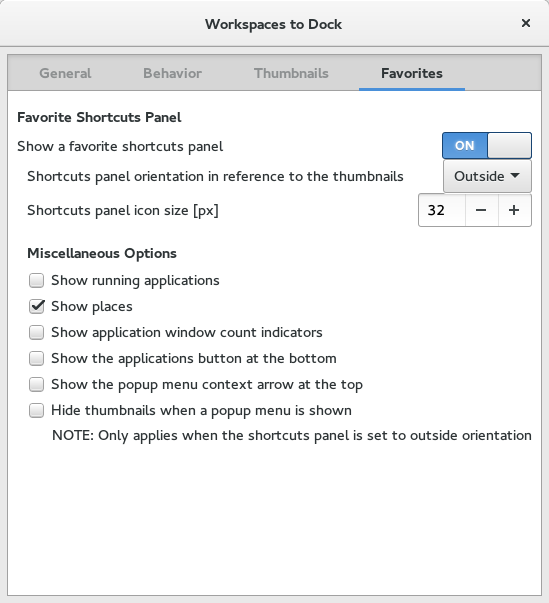
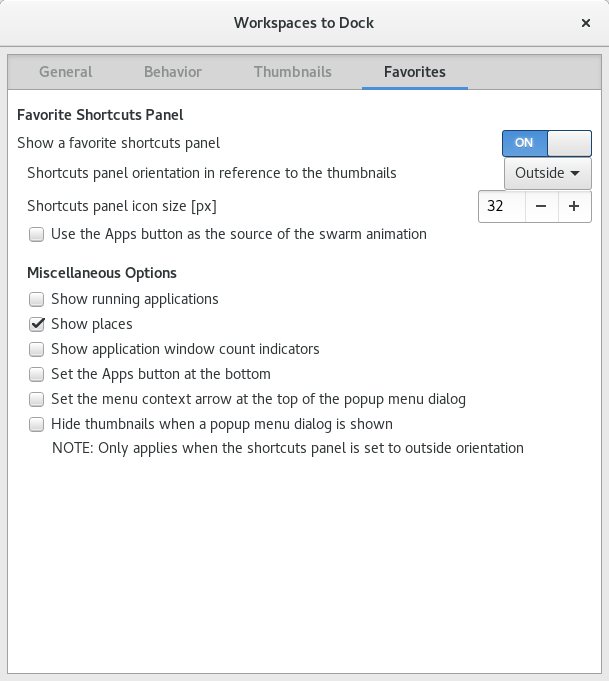
Update readme and screenshots.

Changed region(s): [[0.0, 0.0299, 1.0, 1.0]]

diff --git a/README.md b/README.md
@@ -10,15 +10,15 @@ Installation:
 ------------
 The easiest way to install Workspaces-to-Dock is from https://extensions.gnome.org/extension/427/workspaces-to-dock/ using your browser.
 
-If you would rather install it manually, download the releases branch on Github (https://github.com/passingthru67/workspaces-to-dock/tree/releases) and locate the appropriate release zip file. The release zip file contains the same non-debug version of the extension as https://extensions.gnome.org. The zip file can be extracted manually to the extensions folder or installed by using Gnome Tweak tool.
+If you would rather install it manually, and receive the latest fixes and enhancements, download the master branch zip (https://github.com/passingthru67/workspaces-to-dock/archive/master.zip) and extract it into a temporary folder. Inside of the extracted folder you will find the workspaces-to-dock@passingthru67.gmail folder. Simply copy it to your ~/.local/share/gnome-shell/extensions folder. Next, restart Gnome Shell (alt+f2+r). If Workspaces-to-Dock doesn't show up, you may need to enable the extension using Gnome Tweak tool.
+
+For older releases, download the releases branch on Github (https://github.com/passingthru67/workspaces-to-dock/tree/releases) and locate the appropriate release zip file. The release zip file contains the same non-debug version of the extension as https://extensions.gnome.org. The zip file can be extracted manually to the extensions folder or installed by using Gnome Tweak tool.
 
     $unzip workspaces-to-dock@passingthru67.gmail.com.zip -d ~/.local/share/gnome-shell/extensions/workspaces-to-dock@passingthru67.gmail.com
 
 or
 
     Gnome Tweak tool --> Shell Extensions --> Install from zip file --> choose the zip file.
-
-If you're checking out code from the master branch (downloaded as zip or tar.gz), you will find an installation zip file inside with the latest updates and fixes. The version number is 0 signifying it is not a release version. The zip file can be extracted manually to the extensions folder or installed by using the Gnome Tweak tool as described above.
 
 
 The extension can be configured using `gnome-shell-extension-prefs`. No shell restarts are required.
@@ -35,19 +35,19 @@ General Settings:
 
     **Show the dock at the following screen position** - Option to position the workspaces dock on the right or left side of the screen.
 
+    **Hide the Gnome Shell Dash** - Option to hide the default Dash in overview mode.
+
 - **Height:**
+
+    **Customize the height of the dock** - Option to autosize or extend the height of the dock.
+
+    **Autosize and center the dock based on workspaces and shortcuts** - Option to autosize and center the dock.
 
     **Extend the height of the dock to fill the screen** - Option to extend the height of the dock to fill the screen.
 
     **Top margin** - Sets a top margin for the extended dock. The range allowed is 0% to 25% of the screen height.
 
     **Bottom margin** - Sets a bottom margin for the extended dock. The range allowed is 0% to 25% of the screen height.
-
-- **Thumbnail Size:**
-
-    **Customize the workspace thumbnail size** - Option to customize the maximum thumbnail size.
-
-    **Thumbnail size** - The custom value for the maximum thumbnail size. The range allowed is 10% to 25% of the screen size.
 
 - **Background:**
 
@@ -57,6 +57,7 @@ General Settings:
 
     **Only when the dock is shown by hover** - Only customize the opacity when the dock is shown by the mouse touching the right edge of the screen. In such cases, the dock is usually shown over other windows so that less transparency is desired.
 
+    **Toggle Gnome Shell's overview mode with right click** - When enabled, right clicking on the dock will toggle the overview mode.
 
 Behavior Settings:
 ------------------
@@ -81,9 +82,13 @@ Behavior Settings:
 
     **Require pressure to show the dock** - Require mouse pressure against the edge of the screen to show the dock. This option helps eliminate accidentally triggering the dock when using vertical scroll bars. It also helps with accessing the dock in multi-monitor configurations where the 2nd monitor is to the right of the dock. Unfortunately, this feature requires Gnome Shell 3.8+ and an XServer installation that implements pressure barriers.
 
-    NOTE: In multi-monitor configurations where the 2nd monitor is to the right of the workspaces dock, the dock will have to be showing before the pressure barrier is removed and the mouse pointer released to access the 2nd monitor. This will create a slight hesitation as the mouse must wait for the dock to show. To elliminate this issue, you may show the dock using the keyboard shortcut Super + w, or by entering Gnome Shell's overview mode prior to attempting to access the 2nd monitor.
+    **Pressure threshold** - The amount of pressure required to activate and show the dock.
 
-    **Pressure threshold** - The amount of pressure required to activate and show the dock. This setting works in conjunction with 'Require pressure to show dock' above and requires Gnome Shell 3.8+ and an XServer installation that implements pressure barriers.
+    **Limit pressure sense to slow mouse speeds** - When enabled, this option allows the mouse to pass through the pressure barrier by attacking the edge of the screen with a quick stroke. This allows the mouse to quickly access a second monitor in multi-monitor setups. This setting works in conjunction with 'Require pressure to show dock' above and requires Gnome Shell 3.8+ and an XServer installation that implements pressure barriers.
+
+    **Maximum speed** - The speed limit of the mouse (determined by measuring the pixel distance traveled) that must be reached before the pressure barrier is defeated. The higher the value, the faster the mouse must travel before passing through the barrier.
+
+    NOTE: In multi-monitor configurations where the 2nd monitor is to the right of the workspaces dock, the dock will have to be showing before the pressure barrier is removed and the mouse pointer released to access the 2nd monitor. This will create a slight hesitation as the mouse must wait for the dock to show. To eliminate this issue, you may show the dock using the keyboard shortcut Super + w, or by entering Gnome Shell's overview mode prior to attempting to access the 2nd monitor. A third method is to enable the 'Limit pressure sense to slow mouse speeds' option. This option allows the mouse to pass through the pressure barrier by attacking the edge of the screen with a quick stroke.
 
     **Intellihide Options**
 
@@ -95,13 +100,19 @@ Behavior Settings:
 
     **Dodge only top instance of focused app** - If multiple instances of the focused application are opened, only the top instance window is dodged.
 
+    **What should we do with the dock in overview mode?** - Option to show, hide, or partially hide the dock when in overview mode.
+
     **Miscellaneous Options**
 
     **Leave a visible edge when the dock is hidden** - Option to leave the dock edge visible when in the slid out or hidden state. This option makes the dock more easily accessible in dual monitor configurations where the second monitor is to the right.
 
     **Disable scroll when the dock is hidden to prevent workspace switching** - Option to disable mouse scrolling to prevent accidentally switching workspaces when the dock is hidden.
 
+    NOTE: Normally, a 1px wide space is present at the edge of the screen for scrolling workspaces. But, this 1px edge may interfere with scrollbars of maximized windows when the dock is positioned on the right of the screen. Enabling the 'Disable scroll when the dock is hidden' option removes the 1px edge so that scrollbars are more easily accessible. 'Require pressure to show the dock' must be enabled and 'Leave a visible edge when the dock is hidden' must be disabled, though, for the 1px wide space to be removed.
+
     **Show the dock when hovering over Dash-To-Dock extension** - When enabled, hovering the mouse over the Dash-To-Dock extension will cause the workspaces dock to show. This feature is extremely useful in cases where your workspaces dock is hidden and you want to open a new app from the dash. Rather than going into overview just to see your workspaces, hover over the dash-to-dock extension. The workspaces dock will show to the right. Use the dash-to-dock scroll to go to the appropriate workspace.
+
+    **Show the dock temporarily when switching workspaces** - When enabled, the dock will be shown temporarily when switching workspaces. The default length of time shown is 1 second (1000 ms).
 
     **Toggle the dock with a keyboard shortcut** - When enabled, using the keyboard shortcut will toggle the workspaces dock. The default shortcut key is Super + w.
 
@@ -110,6 +121,12 @@ Thumbnails Settings:
 --------------------
 
 ![screenshot](https://github.com/passingthru67/workspaces-to-dock/raw/master/Prefs-Thumbnails.png)
+
+- **Thumbnail Size:**
+
+    **Customize the workspace thumbnail size** - Option to customize the maximum thumbnail size.
+
+    **Thumbnail size** - The custom value for the maximum thumbnail size. The range allowed is 10% to 25% of the screen size.
 
 - **Thumbnail Captions:**
 
@@ -139,16 +156,10 @@ Thumbnails Settings:
 Below are examples of the workspace (thumbnail) caption in various configurations
 ![screenshot](https://github.com/passingthru67/workspaces-to-dock/raw/master/Thumbnails.png)
 
-- **Miscellaneous Options:**
-
-    **Toggle Gnome Shell's overview mode with right click** - When enabled, right clicking on the dock will toggle the overview mode.
-
-
 
 Workspace Caption Theming:
 -------------------------
 Adding workspaces-to-dock caption support to a theme can be accomplished by placing a custom 'workspaces-to-dock.css' stylesheet in the theme's gnome-shell/extensions folder. There is no need to use the @import directive to incorporate the stylesheet classes into your theme's gnome-shell.css. The extension will automatically detect the stylesheet file. Please see the workspaces-to-dock.css stylesheet for a description of the css classes.
-
 
 
 Favorites Settings:
@@ -164,6 +175,8 @@ Favorites Settings:
 
     **Shortcuts panel icon size** - Sets the size of the application icons.
 
+    **Use the Apps button as the source of the swarm animation** - When enabled, the Apps button will be the source of the swarm animation that displays the apps icon grid in overview mode.
+
     **Miscellaneous Options**
 
     **Show running applications** - Option to show running applications on the favorite shortcuts panel.
@@ -172,9 +185,9 @@ Favorites Settings:
 
     **Show application window count indicators** - Option to show the number of running instances of an application next to the application icon.
 
-    **Show applications button at the bottom** - Option to show the applications button (grid) at the bottom of the favorite shortcuts panel.
+    **Set the Apps button at the bottom** - Option to show the applications button (grid) at the bottom of the favorite shortcuts panel.
 
-    **Show the popup menu context arrow at the top** - Option to show the popup menu context arrow at the top of the context menu. The default position is in the middle.
+    **Set the menu context arrow at the top of the popup menu dialog** - Option to show the popup menu context arrow at the top of the context menu. The default position is in the middle.
 
     **Hide thumbnails when a popup menu is shown** - Option to hide the thumbnails when a popup menu is show by right clicking a favorite application icon. This only applies when the shortcuts panel is oriented on the outside of the thumbnails.
 
@@ -222,13 +235,24 @@ If the behavior persists with other extensions disabled, check for extension err
 - Open up Looking Glass (Alt+F2 then type lg and press enter) and check for extension errors under the Extensions link.
 - Open your ~/.xsession-errors log and look for errors related to the extension.
 - Type "gnome-shell --replace" in a terminal and watch for JS error logs related to the extension.
-- Type "journalctl -f | grep Gjs-Message" in a terminal (if systemd is installed) and watch for JS error logs related to the extension.
+- Type "journalctl -f" in a terminal (if systemd is installed) and watch for JS error logs related to the extension. Alternately, typing "jurnalctl -b" will show all messages since the last boot.
 
 If the problem persists, please report it by opening an issue on github or with a bug report message on the extension website.
 
 
 Change Log:
 -----------
+**version 32 for Gnome 3.18 (Feb 5, 2015)**
+- Bug fixes
+- Added support for positioning the dock at the top or bottom of the screen
+- Added option to hide Gnome Shell Dash
+- Added option to change source of swarm animation to Apps button
+- Added option to autosize and center the dock
+- Added option to show, hide, or partially-hide the dock in overview mode
+- Added option to temporarily show the dock when switching workspaces
+- Added ability to add, remove, and rearrange favorites on shortcuts panel
+- Added pressure threshold speed limit for dual monitor setups
+
 **version 31 for Gnome 3.18 (Oct 9, 2015)**
 - Support for Gnome 3.18
 
@@ -382,4 +406,3 @@ Change Log:
 **version 1 (Aug 15, 2012)**
 
 - Initial extension based on the dash-to-dock v10 code (https://github.com/micheleg/dash-to-dock).
-
